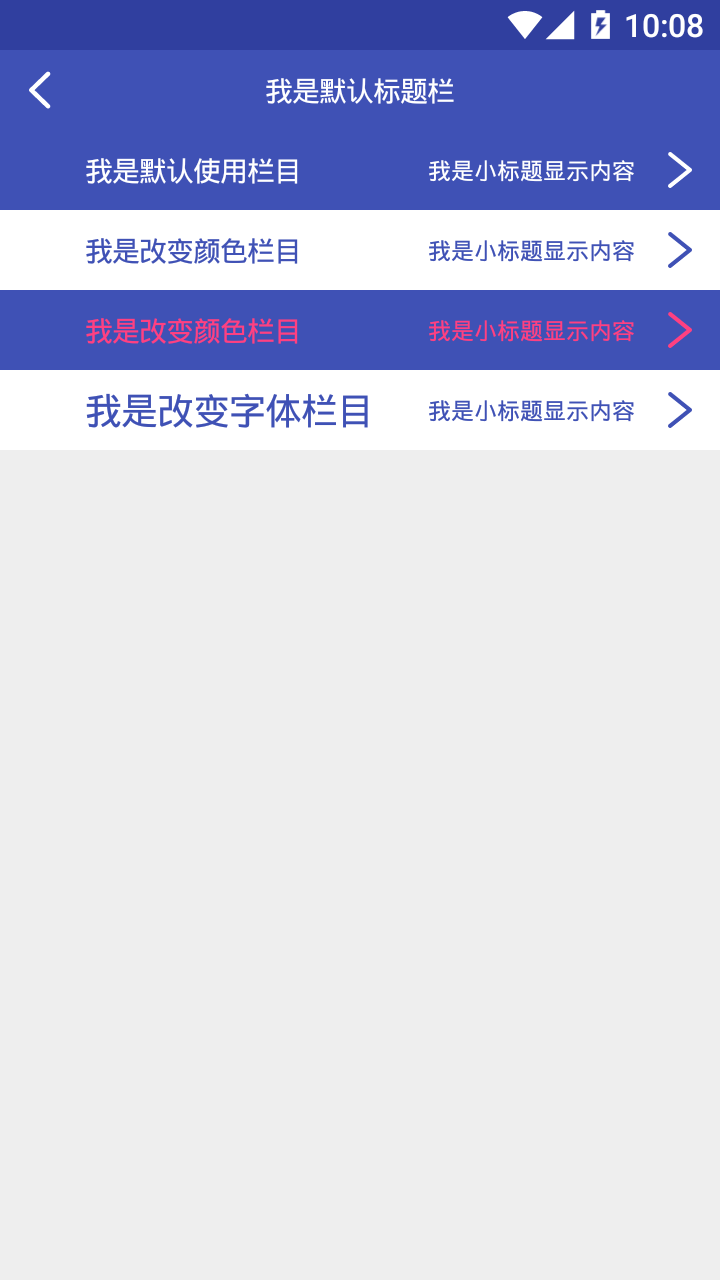
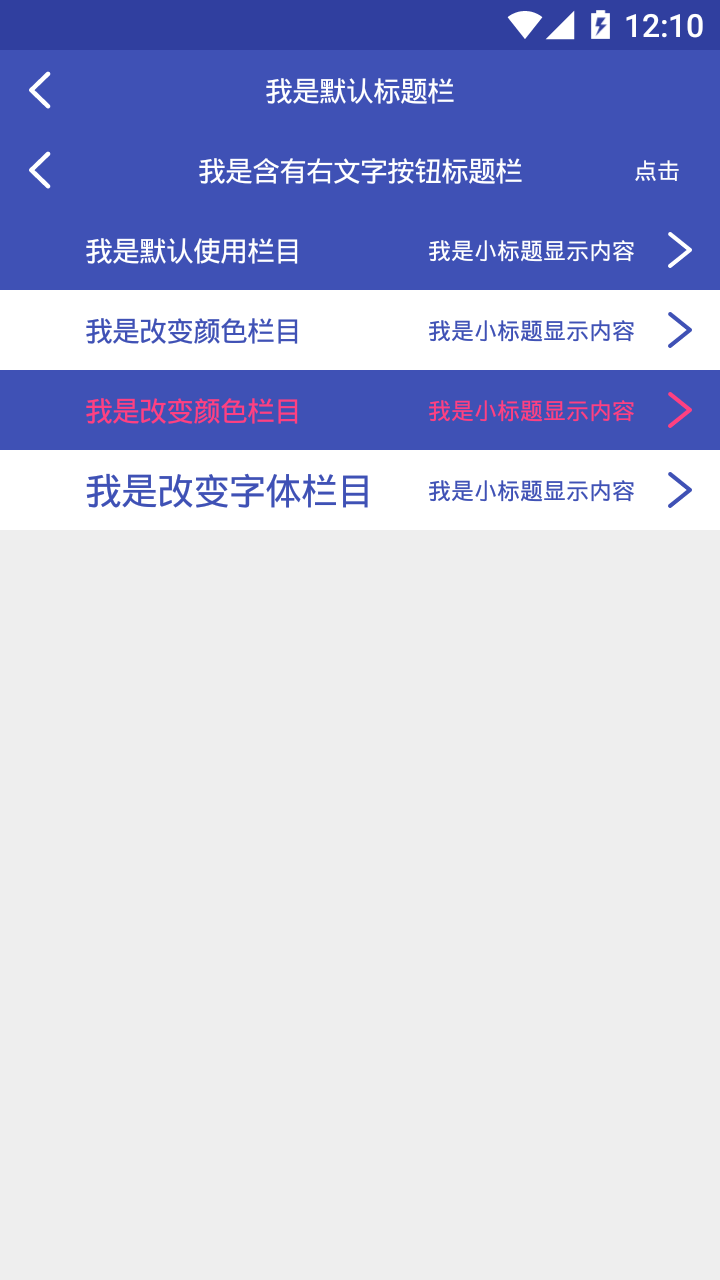
提交信息

Changed region(s): [[0.0, 0.125, 1.0, 0.4062], [0.8861, 0.0, 0.9778, 0.0312]]

diff --git a/compoments/toolbar.md b/compoments/toolbar.md
@@ -1,8 +1,9 @@
 ## toolbar
 
->一种简易多功能条目，可以变成navbar也可以直接使用在项目中
+!> 一种简易多功能条目，可以变成navbar也可以直接使用在项目中
 
 **使用方式：**
+> 标题栏
 
 ```xml
  <com.stormkid.kui_base.toolbar.KuiToolBar android:layout_width="match_parent"
@@ -13,6 +14,44 @@
                                             android:layout_height="@dimen/dp_40"/>
 ```    
 
+> 条目工具栏
+
+```xml
+    <com.stormkid.kui_base.toolbar.KuiToolBar android:layout_width="match_parent"
+                                              app:title_text="我是默认使用栏目"
+                                              android:background="@color/colorPrimary"
+                                              android:foreground="?android:attr/selectableItemBackground"
+                                              android:id="@+id/tool_title"
+                                              app:title_gravity="LEFT"
+                                              app:title_color="@android:color/white"
+                                              app:is_nav_bar="false"
+                                              app:content_text="我是小标题显示内容"
+                                              app:content_color="@android:color/white"
+                                              app:right_image_icon="@drawable/ic_right"
+                                              android:layout_height="@dimen/dp_40"/>
+```
+
+> API
+
+| AttrName  | Type | DefultValue    | Remark  |
+|-------|---|-----------|-------|
+| image_dimen  | dimention | 20dp     | 图标宽高 |
+| left_image_icon | resource  | 0     | 左图标   |
+| left_icon_color  | resource   | white | 左图标颜色     |
+| right_image_icon | resource  | 0     | 右图标   |
+| right_icon_color  | resource   | white | 右图标颜色     |
+| title_text  | string   | "" | 主标题/主显示文字     |
+| title_size  | dimention   | 14sp | 主标题/主显示文字字号     |
+| title_color  | resource   | #666 | 主标题/主显示文字颜色     |
+| title_gravity  | enum   | CENTER | 主标题文字位置【LEFT/RIGHT/CENTER】 |
+| content_text  | string    | "" | 小标题文字内容     |
+| content_size  | dimention   | true |  小标题文字字体大小    |
+| content_color  | resource   | #999 |  小标题文字字体颜色     |
+| is_nav_bar  | boolean   | true | 是否是标题栏     |
+| is_right_text  | boolean   | false | 是否使用小标题当右侧点击功能按钮 |
+---------------------
+
+
 >效果图
 
- ![toolbar效果图](localhost/editImg/toolbar.png ":size=300x")
+ ![toolbar效果图](../editImg/toolbar.png ":size=300x")
